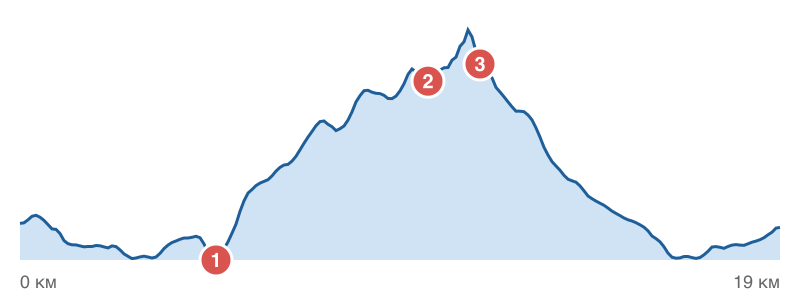
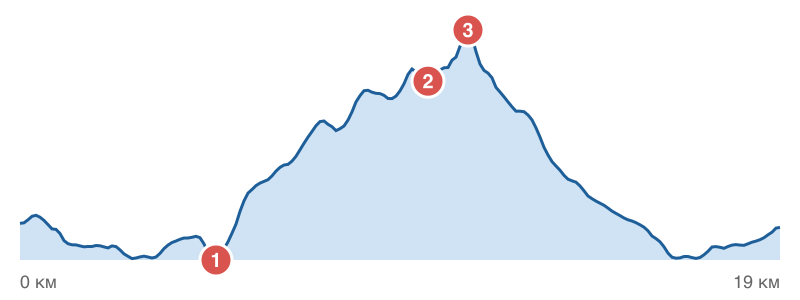
fix(race-course): на трейле главный спуск важнее ветра; в коротком разборе спуск раньше фонаря и питания
FerrumFest 19: точка ветра на 11,5 км вытесняла спуск 325 м с вершины (правило «не две точки
ближе 0,5 км»). Чек воспроизводит столкновение и падает на старом приоритете.

Changed region(s): [[0.5625, 0.03, 0.625, 0.27]]

diff --git a/scripts/race-course/key-points.ts b/scripts/race-course/key-points.ts
@@ -243,6 +243,7 @@ export function keyPointsTrail(input: Parameters<typeof keyPoints>[0] & {
   }
 
   // Ветер: только длинный встречный отрезок, и без «держитесь в группе»: на тропе группы нет.
+  // Ниже спуска по приоритету: на одном км с вершиной ветер вытеснял главный спуск (FerrumFest 19, 15.10).
   if (wind && wind.medianMs >= WIND_WORTH_MS) {
     let best: [number, number] | null = null;
     let runStart = -1;
@@ -254,7 +255,7 @@ export function keyPointsTrail(input: Parameters<typeof keyPoints>[0] & {
     const head = best as [number, number] | null;
     if (head && head[1] - head[0] + 1 >= MIN_HEAD_RUN_KM) {
       const a = perKm[head[0]].km, z = perKm[head[1]].km;
-      c.push({ km: a - 0.5, type: "wind", text: `С ${a}-го по ${z}-й км ветер чаще в лицо (обычно дует ${windFrom(wind.dirLabel)}): на открытых участках держи усилие, а не темп.`, prio: 75 });
+      c.push({ km: a - 0.5, type: "wind", text: `С ${a}-го по ${z}-й км ветер чаще в лицо (обычно дует ${windFrom(wind.dirLabel)}): на открытых участках держи усилие, а не темп.`, prio: 65 });
     }
   }
 
@@ -299,8 +300,8 @@ export function courseSummary(segments: Segment[], finish?: { gain: number; loss
   return parts.join(", ");
 }
 
-/** До 4 точек для короткого разбора в боте: подъёмы, спуск, фонарь и питание, по порядку км. */
+/** До 4 точек для короткого разбора в боте: подъёмы, затем спуск, фонарь, питание; выводятся по порядку км. */
 export function shortPoints(points: KeyPoint[], max = 4): KeyPoint[] {
-  const rank = (p: KeyPoint) => (p.type === "climb" ? 3 : p.type === "descent" ? 2 : /фонарь|пункт|воду/i.test(p.text) ? 2.5 : p.type === "wind" ? 1 : 0);
+  const rank = (p: KeyPoint) => (p.type === "climb" ? 3 : p.type === "descent" ? 2.8 : /фонарь/i.test(p.text) ? 2.6 : /пункт|воду/i.test(p.text) ? 2.5 : p.type === "wind" ? 1 : 0);
   return [...points].filter((p) => rank(p) > 0).sort((a, b) => rank(b) - rank(a)).slice(0, max).sort((a, b) => a.km - b.km);
 }

diff --git a/scripts/check-race-course.ts b/scripts/check-race-course.ts
@@ -263,6 +263,22 @@ ok("трейл: питание по положению; пунктов не зн
   assert.ok(!short.some((p) => /пункт/i.test(p.text)), "короткая дистанция: про питание молчим");
 });
 
+ok("трейл: главный спуск не вытесняется ветром на том же километре", () => {
+  // Вершина на 6,2 км, встречный ветер с 7-го по 10-й (точка ветра на 6,5 км, ближе 0,5 км к спуску):
+  // спуск важнее (FerrumFest 19, 15.10.2026: ветер на 11,5 км вытеснял спуск с вершины).
+  const total = 12;
+  const pts = north(total);
+  const dist = pts.map((_, i) => i * 50);
+  const elev = dist.map((d) => (d < 3000 ? 300 : d < 6200 ? 300 + (d - 3000) * 0.1 : d < 9200 ? 620 - (d - 6200) * 0.1 : 320));
+  const sides: ("head" | "cross")[] = Array.from({ length: total }, (_, i) => (i >= 6 && i <= 9 ? "head" : "cross"));
+  const km = perKm(dist, elev, pts).map((k, i) => ({ ...k, wind: sides[i] }));
+  const kp = keyPointsTrail({
+    totalM: total * 1000, segments: segments(dist, elev, 3), perKm: km, wind: { dirLabel: "В", medianMs: 5 },
+    distanceKm: total, startMin: 9 * 60, cutoffMin: null, sun: null, aid: null,
+  });
+  assert.ok(kp.some((p) => p.type === "descent" && p.km >= 6.1 && p.km <= 6.3), kp.map((p) => `${p.km} ${p.type}`).join(", "));
+});
+
 ok("шоссе: у ультра и малых стартов без «толпы», у массовых как было", () => {
   const pts = north(10);
   const dist = pts.map((_, i) => i * 50);
